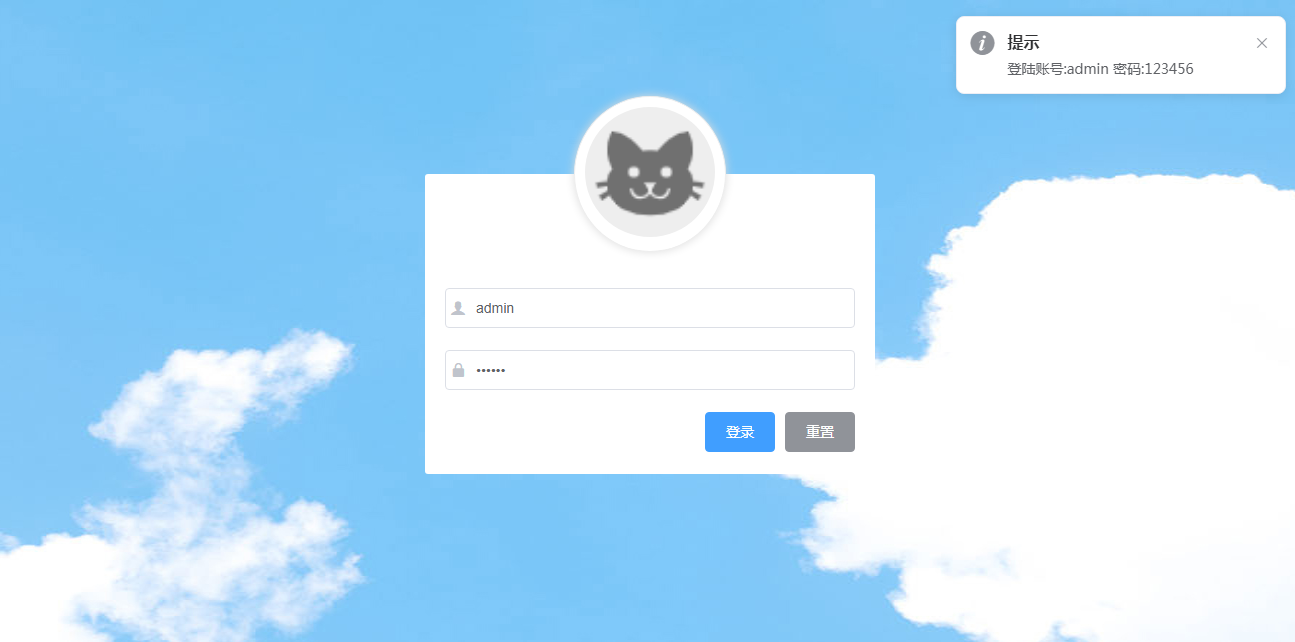
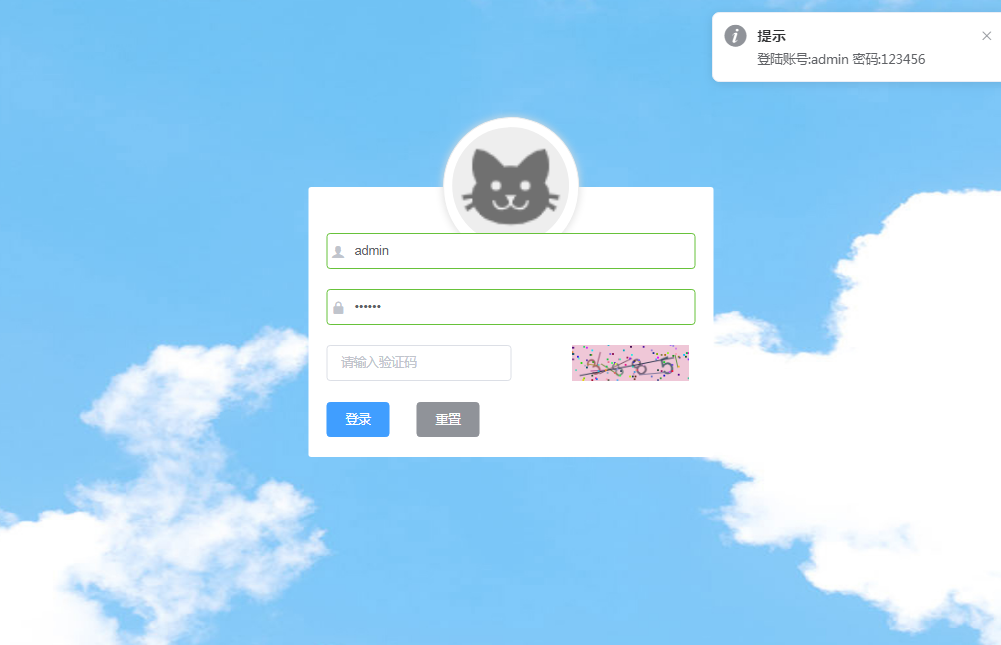
登录添加图片验证码

Changed region(s): [[0.0, 0.1246, 1.0, 1.0], [0.7123, 0.0, 1.0, 0.1558]]

diff --git a/src/components/Login/index.vue b/src/components/Login/index.vue
@@ -17,6 +17,23 @@
                     <!-- 密码 -->
                     <el-input v-model='loginForm.password' prefix-icon="iconfont icon-3702mima" type='password'></el-input>
                 </el-form-item>
+                <el-form-item prop="vertifyCode">
+                    <!-- 验证码 -->
+                    <div class="vertify-code">
+                        <el-row :span="24">
+                            <el-col :span="12">
+                                <el-input v-model="loginForm.vertifyCode" auto-complete="off" placeholder="请输入验证码" size=""
+                                @keyup.enter.native="login('loginForm')"></el-input>
+                            </el-col>
+                            <el-col :span="6" :offset="4">
+                                <div class="login-code" @click="refreshCode">
+                                <!--验证码组件-->
+                                    <s-indentify :identifyCode="identifyCode" contentWidth=130 contentHeight=40></s-indentify>
+                                </div>
+                            </el-col>
+                        </el-row>
+                    </div>
+                </el-form-item>
                 <el-form-item class="btns">
                     <!-- 按钮 -->
                     <el-button type="primary" @click="login">登录</el-button>
@@ -30,14 +47,31 @@
 </template>
 
 <script>
+import SIndentify from './indentify'
+
 export default {
     name: 'Login',
+    components: {
+        's-indentify': SIndentify
+    },
     data(){
+        // 验证码自定义验证规则
+        const validateVerifycode = (rule, value, callback) => {
+            if (value === '') {
+                callback(new Error('请输入验证码'))
+            } else if (value !== this.identifyCode) {
+                // console.log('validateVerifycode:', value)
+                callback(new Error('验证码不正确!'))
+            } else {
+                callback()
+            }
+        }
         return{
             //登陆表单的数据绑定对象
             loginForm:{
-                username:'admin',
-                password: '123456'
+                username:'',
+                password: '',
+                vertifyCode: ''
             },
             //表单验证
             loginFormRules:{
@@ -48,16 +82,22 @@ export default {
                 password: [
                     { required: true, message: '请输入密码', trigger: 'blur'},
                     { min: 6, max: 15, message: '长度在6到15个字符', trigger: 'blur'}
-                ]
+                ],
+                vertifyCode: [{ required: true, validator: validateVerifycode, trigger: 'blur'}]
             },
             // 提示
-            notiftyObj: null
+            notiftyObj: null,
+            identifyCodes: '123456789',
+            identifyCode: '' // 生成的验证码
         }
     },
     mounted () {
+        // 保证页面只显示一次提示
         if (!window.sessionStorage.getItem('notifyLogin')) {
             this.webShopTip()
         }
+        // 验证码初始化
+        this.refreshCode()
     },
     methods:{
         //点击重置登录表单
@@ -96,6 +136,19 @@ export default {
                 duration: 0
             });
             window.sessionStorage.setItem('notifyLogin',this.notifyObj.message)
+        },
+        randomNum (min, max) {
+            return Math.floor(Math.random() * (max - min) + min)
+        },
+        makeCode (o, l) {
+            for (let i = 0; i < l; i++) {
+                this.identifyCode += this.identifyCodes[this.randomNum(0, this.identifyCodes.length)]
+            }
+            // console.log(this.identifyCode)
+        },
+        refreshCode () {
+            this.identifyCode = ''
+            this.makeCode(this.identifyCodes, 4)
         }
     }
 }
@@ -139,7 +192,12 @@ export default {
 
     .btns{
         display: flex;
-        justify-content: flex-end;
+        justify-content: flex-start;
+        .el-button {
+            margin-right: 20px;
+            vertical-align: middle;
+            text-align: center;
+        }
     }
 }
 
@@ -150,5 +208,7 @@ export default {
     padding: 0 20px;
     box-sizing: border-box;
 }
-
+.login-code {
+    margin-top: -5px;
+}
 </style>

diff --git a/src/components/Login/indentify.vue b/src/components/Login/indentify.vue
@@ -1,0 +1,160 @@
+<template>
+  <div class="s-canvas">
+    <canvas id="s-canvas" :width="contentWidth" :height="contentHeight"></canvas>
+  </div>
+</template>
+<script>
+export default {
+  name: 'SIdentify',
+  props: {
+    identifyCode: {
+      type: String,
+      default: '1234'
+    },
+    fontSizeMin: {
+      type: Number,
+      default: 16
+    },
+    fontSizeMax: {
+      type: Number,
+      default: 40
+    },
+    backgroundColorMin: {
+      type: Number,
+      default: 180
+    },
+    backgroundColorMax: {
+      type: Number,
+      default: 240
+    },
+    colorMin: {
+      type: Number,
+      default: 50
+    },
+    colorMax: {
+      type: Number,
+      default: 160
+    },
+    lineColorMin: {
+      type: Number,
+      default: 40
+    },
+    lineColorMax: {
+      type: Number,
+      default: 180
+    },
+    dotColorMin: {
+      type: Number,
+      default: 0
+    },
+    dotColorMax: {
+      type: Number,
+      default: 255
+    },
+    contentWidth: {
+      type: [Number, String],
+      default: 112
+    },
+    contentHeight: {
+      type: [Number, String],
+      default: 38
+    }
+  },
+  methods: {
+    // 生成一个随机数
+    randomNum(min, max) {
+      return Math.floor(Math.random() * (max - min) + min)
+    },
+    // 生成一个随机的颜色
+    randomColor(min, max) {
+      var r = this.randomNum(min, max)
+      var g = this.randomNum(min, max)
+      var b = this.randomNum(min, max)
+      return 'rgb(' + r + ',' + g + ',' + b + ')'
+    },
+    drawPic() {
+      var canvas = document.getElementById('s-canvas')
+      var ctx = canvas.getContext('2d')
+      ctx.textBaseline = 'bottom'
+      // 绘制背景
+      ctx.fillStyle = this.randomColor(
+        this.backgroundColorMin,
+        this.backgroundColorMax
+      )
+      ctx.fillRect(0, 0, this.contentWidth, this.contentHeight)
+      // 绘制文字
+      for (let i = 0; i < this.identifyCode.length; i++) {
+        this.drawText(ctx, this.identifyCode[i], i)
+      }
+      this.drawLine(ctx)
+      this.drawDot(ctx)
+    },
+    // 绘制文字
+    drawText(ctx, txt, i) {
+      ctx.fillStyle = this.randomColor(this.colorMin, this.colorMax) // 随机生成字体颜色
+      ctx.font = this.randomNum(this.fontSizeMin, this.fontSizeMax) + 'px SimHei'
+      var x = (i + 1) * (this.contentWidth / (this.identifyCode.length + 1))
+      var y = this.randomNum(this.fontSizeMax, this.contentHeight - 5)
+      var deg = this.randomNum(-45, 45)
+      // 修改坐标原点和旋转角度
+      ctx.translate(x, y)
+      ctx.rotate(deg * Math.PI / 180)
+      ctx.fillText(txt, 0, 0)
+      // 恢复坐标原点和旋转角度
+      ctx.rotate(-deg * Math.PI / 180)
+      ctx.translate(-x, -y)
+    },
+    // 绘制干扰线
+    drawLine(ctx) {
+      for (let i = 0; i < 8; i++) {
+        ctx.strokeStyle = this.randomColor(
+          this.lineColorMin,
+          this.lineColorMax
+        )
+        ctx.beginPath()
+        ctx.moveTo(
+          this.randomNum(0, this.contentWidth),
+          this.randomNum(0, this.contentHeight)
+        )
+        ctx.lineTo(
+          this.randomNum(0, this.contentWidth),
+          this.randomNum(0, this.contentHeight)
+        )
+        ctx.stroke()
+      }
+    },
+    // 绘制干扰点
+    drawDot(ctx) {
+      // 绘制干扰点
+      for (let i = 0; i < 100; i++) {
+        ctx.fillStyle = this.randomColor(0, 255)
+        ctx.beginPath()
+        ctx.arc(
+          this.randomNum(0, this.contentWidth),
+          this.randomNum(0, this.contentHeight),
+          1,
+          0,
+          2 * Math.PI
+        )
+        ctx.fill()
+      }
+    }
+  },
+  watch: {
+    identifyCode() {
+      this.drawPic()
+    }
+  },
+  mounted() {
+    this.drawPic()
+  }
+}
+</script>
+<style  lang="less" scoped>
+.s-canvas {
+  height: 38px;
+  canvas{
+    margin-top: 5px;
+  }
+}
+</style>

diff --git a/src/components/Goods/Cate/index.vue b/src/components/Goods/Cate/index.vue
@@ -229,7 +229,7 @@ export default {
             //console.log(this.selectedKeys)
             //如果selectedKeys数组中的length大于0，就说明选中的是父级分类
             //反之，就说明没有选中任何父级分类
-            if(this.selectedKeys.length > 0){
+            if(this.selectedKeys.length > 0){ // 选中了父级分类
                 //父级分类的id
                 this.addCateForm.cat_pid = this.selectedKeys[this.selectedKeys.length -1]
                 //为当前分类的等级赋值
